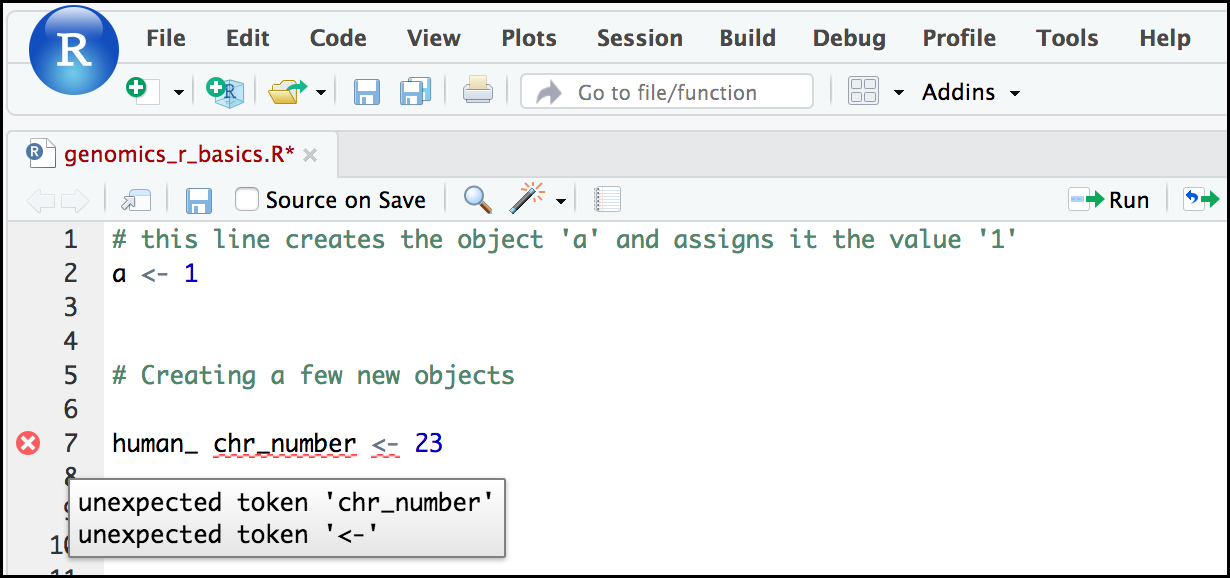
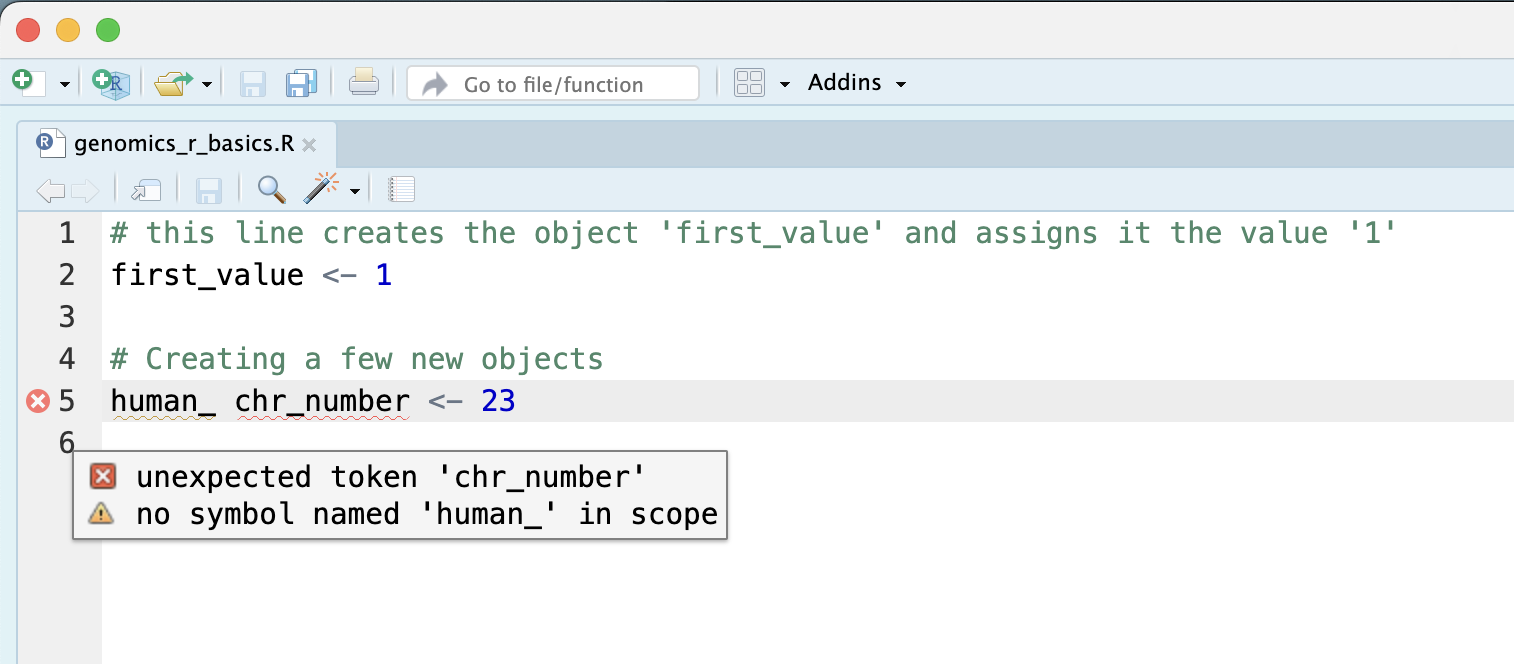
site deploy
Auto-generated via {sandpaper}
Source  : cbe0f137c4fcc7580805bf150e3ebe8342e9138b
Branch  : md-outputs
Author  : GitHub Actions <actions@github.com>
Time    : 2024-01-19 18:23:05 +0000
Message : markdown source builds

Auto-generated via {sandpaper}
Source  : a36d551dfa9544da02a691e5e83518ee6ee3216a
Branch  : main
Author  : Naupaka Zimmerman <naupaka@gmail.com>
Time    : 2024-01-19 18:21:52 +0000
Message : Merge pull request #251 from naupaka/fix-a-name

Rename initial example object name per #98

Changed region(s): [[0.0, 0.0, 1.0, 1.0], [0.0927, 0.4671, 0.1236, 0.4983]]

diff --git a/aio.html b/aio.html
@@ -1130,21 +1130,21 @@ make it easier to record what you did and why.</p>
 <strong>object</strong> in R.</p>
 <p><strong>To create an object you need:</strong></p>
 <ul>
-<li>a name (e.g. ‘a’)</li>
+<li>a name (e.g. ‘first_value’)</li>
 <li>a value (e.g. ‘1’)</li>
 <li>the assignment operator (‘&lt;-’)</li>
 </ul>
 <p>In your script, “<strong>genomics_r_basics.R</strong>”, using the R
-assignment operator ‘&lt;-’, assign ‘1’ to the object ‘a’ as shown.
-Remember to leave a comment in the line above (using the ‘#’) to explain
-what you are doing:</p>
+assignment operator ‘&lt;-’, assign ‘1’ to the object ‘first_value’ as
+shown. Remember to leave a comment in the line above (using the ‘#’) to
+explain what you are doing:</p>
 <div class="codewrapper sourceCode" id="cb1">
 <h3 class="code-label">R<i aria-hidden="true" data-feather="chevron-left"></i><i aria-hidden="true" data-feather="chevron-right"></i>
 </h3>
 <pre class="downlit sourceCode r">
-<code class="sourceCode R"><span><span class="co"># this line creates the object 'a' and assigns it the value '1'</span></span>
+<code class="sourceCode R"><span><span class="co"># this line creates the object 'first_value' and assigns it the value '1'</span></span>
 <span></span>
-<span><span class="va">a</span> <span class="op">&lt;-</span> <span class="fl">1</span></span></code></pre>
+<span><span class="va">first_value</span> <span class="op">&lt;-</span> <span class="fl">1</span></span></code></pre>
 </div>
 <p>Next, run this line of code in your script. You can run a line of
 code by hitting the <kbd>Run</kbd> button that is just above the first
@@ -1163,7 +1163,7 @@ listed above.</p>
 <div class="codewrapper">
 <h3 class="code-label">OUTPUT<i aria-hidden="true" data-feather="chevron-left"></i><i aria-hidden="true" data-feather="chevron-right"></i>
 </h3>
-<pre class="output" tabindex="0"><code>a &lt;- 1
+<pre class="output" tabindex="0"><code>first_value &lt;- 1
 &gt;</code></pre>
 </div>
 <p>The ‘Console’ will display lines of code run from a script and any
@@ -1179,7 +1179,7 @@ outputs or status/warning/error messages (usually in red).</p>
 <th></th>
 </tr></thead>
 <tbody><tr class="odd">
-<td>a</td>
+<td>first_value</td>
 <td>1</td>
 </tr></tbody>
 </table>
@@ -4862,7 +4862,7 @@ Note that contains() is not case sensistive.</p>
 <button class="accordion-button solution-button collapsed" type="button" data-bs-toggle="collapse" data-bs-target="#collapseSolution1" aria-expanded="false" aria-controls="collapseSolution1">
   <h4 class="accordion-header" id="headingSolution1">Show me the solution</h4>
 </button>
-<div id="collapseSolution1" class="accordion-collapse collapse" aria-labelledby="headingSolution1" data-bs-parent="#accordionSolution1">
+<div id="collapseSolution1" class="accordion-collapse collapse" data-bs-parent="#accordionSolution1" aria-labelledby="headingSolution1">
 <div class="accordion-body">
 <div class="codewrapper sourceCode" id="cb10">
 <h3 class="code-label">R<i aria-hidden="true" data-feather="chevron-left"></i><i aria-hidden="true" data-feather="chevron-right"></i>
@@ -4914,7 +4914,7 @@ code:</p>
 <button class="accordion-button solution-button collapsed" type="button" data-bs-toggle="collapse" data-bs-target="#collapseSolution2" aria-expanded="false" aria-controls="collapseSolution2">
   <h4 class="accordion-header" id="headingSolution2">Alternative solution</h4>
 </button>
-<div id="collapseSolution2" class="accordion-collapse collapse" aria-labelledby="headingSolution2" data-bs-parent="#accordionSolution2">
+<div id="collapseSolution2" class="accordion-collapse collapse" data-bs-parent="#accordionSolution2" aria-labelledby="headingSolution2">
 <div class="accordion-body">
 <div class="codewrapper sourceCode" id="cb12">
 <h3 class="code-label">R<i aria-hidden="true" data-feather="chevron-left"></i><i aria-hidden="true" data-feather="chevron-right"></i>
@@ -5184,7 +5184,7 @@ FALSE, we can use to negation symbol “!”. (eg. !TRUE == FALSE).</p>
 <button class="accordion-button solution-button collapsed" type="button" data-bs-toggle="collapse" data-bs-target="#collapseSolution3" aria-expanded="false" aria-controls="collapseSolution3">
   <h4 class="accordion-header" id="headingSolution3">Show me the solution</h4>
 </button>
-<div id="collapseSolution3" class="accordion-collapse collapse" aria-labelledby="headingSolution3" data-bs-parent="#accordionSolution3">
+<div id="collapseSolution3" class="accordion-collapse collapse" data-bs-parent="#accordionSolution3" aria-labelledby="headingSolution3">
 <div class="accordion-body">
 <div class="codewrapper sourceCode" id="cb28">
 <h3 class="code-label">R<i aria-hidden="true" data-feather="chevron-left"></i><i aria-hidden="true" data-feather="chevron-right"></i>
@@ -5385,7 +5385,7 @@ where the filtered depth (DP) is at least 10. Showing only 5th through
 <button class="accordion-button solution-button collapsed" type="button" data-bs-toggle="collapse" data-bs-target="#collapseSolution4" aria-expanded="false" aria-controls="collapseSolution4">
   <h4 class="accordion-header" id="headingSolution4">Show me the solution</h4>
 </button>
-<div id="collapseSolution4" class="accordion-collapse collapse" aria-labelledby="headingSolution4" data-bs-parent="#accordionSolution4">
+<div id="collapseSolution4" class="accordion-collapse collapse" data-bs-parent="#accordionSolution4" aria-labelledby="headingSolution4">
 <div class="accordion-body">
 <div class="codewrapper sourceCode" id="cb39">
 <h3 class="code-label">R<i aria-hidden="true" data-feather="chevron-left"></i><i aria-hidden="true" data-feather="chevron-right"></i>
@@ -5477,7 +5477,7 @@ only show those columns.</p>
 <button class="accordion-button solution-button collapsed" type="button" data-bs-toggle="collapse" data-bs-target="#collapseSolution5" aria-expanded="false" aria-controls="collapseSolution5">
   <h4 class="accordion-header" id="headingSolution5">Show me the solution</h4>
 </button>
-<div id="collapseSolution5" class="accordion-collapse collapse" aria-labelledby="headingSolution5" data-bs-parent="#accordionSolution5">
+<div id="collapseSolution5" class="accordion-collapse collapse" data-bs-parent="#accordionSolution5" aria-labelledby="headingSolution5">
 <div class="accordion-body">
 <div class="codewrapper sourceCode" id="cb43">
 <h3 class="code-label">R<i aria-hidden="true" data-feather="chevron-left"></i><i aria-hidden="true" data-feather="chevron-right"></i>
@@ -5577,7 +5577,7 @@ detected in each sample using the function <code>tally()</code>:</p>
 <button class="accordion-button solution-button collapsed" type="button" data-bs-toggle="collapse" data-bs-target="#collapseSolution6" aria-expanded="false" aria-controls="collapseSolution6">
   <h4 class="accordion-header" id="headingSolution6">Show me the solution</h4>
 </button>
-<div id="collapseSolution6" class="accordion-collapse collapse" aria-labelledby="headingSolution6" data-bs-parent="#accordionSolution6">
+<div id="collapseSolution6" class="accordion-collapse collapse" data-bs-parent="#accordionSolution6" aria-labelledby="headingSolution6">
 <div class="accordion-body">
 <div class="codewrapper sourceCode" id="cb49">
 <h3 class="code-label">R<i aria-hidden="true" data-feather="chevron-left"></i><i aria-hidden="true" data-feather="chevron-right"></i>

diff --git a/instructor/aio.html b/instructor/aio.html
@@ -1134,21 +1134,21 @@ make it easier to record what you did and why.</p>
 <strong>object</strong> in R.</p>
 <p><strong>To create an object you need:</strong></p>
 <ul>
-<li>a name (e.g. ‘a’)</li>
+<li>a name (e.g. ‘first_value’)</li>
 <li>a value (e.g. ‘1’)</li>
 <li>the assignment operator (‘&lt;-’)</li>
 </ul>
 <p>In your script, “<strong>genomics_r_basics.R</strong>”, using the R
-assignment operator ‘&lt;-’, assign ‘1’ to the object ‘a’ as shown.
-Remember to leave a comment in the line above (using the ‘#’) to explain
-what you are doing:</p>
+assignment operator ‘&lt;-’, assign ‘1’ to the object ‘first_value’ as
+shown. Remember to leave a comment in the line above (using the ‘#’) to
+explain what you are doing:</p>
 <div class="codewrapper sourceCode" id="cb1">
 <h3 class="code-label">R<i aria-hidden="true" data-feather="chevron-left"></i><i aria-hidden="true" data-feather="chevron-right"></i>
 </h3>
 <pre class="downlit sourceCode r">
-<code class="sourceCode R"><span><span class="co"># this line creates the object 'a' and assigns it the value '1'</span></span>
+<code class="sourceCode R"><span><span class="co"># this line creates the object 'first_value' and assigns it the value '1'</span></span>
 <span></span>
-<span><span class="va">a</span> <span class="op">&lt;-</span> <span class="fl">1</span></span></code></pre>
+<span><span class="va">first_value</span> <span class="op">&lt;-</span> <span class="fl">1</span></span></code></pre>
 </div>
 <p>Next, run this line of code in your script. You can run a line of
 code by hitting the <kbd>Run</kbd> button that is just above the first
@@ -1167,7 +1167,7 @@ listed above.</p>
 <div class="codewrapper">
 <h3 class="code-label">OUTPUT<i aria-hidden="true" data-feather="chevron-left"></i><i aria-hidden="true" data-feather="chevron-right"></i>
 </h3>
-<pre class="output" tabindex="0"><code>a &lt;- 1
+<pre class="output" tabindex="0"><code>first_value &lt;- 1
 &gt;</code></pre>
 </div>
 <p>The ‘Console’ will display lines of code run from a script and any
@@ -1183,7 +1183,7 @@ outputs or status/warning/error messages (usually in red).</p>
 <th></th>
 </tr></thead>
 <tbody><tr class="odd">
-<td>a</td>
+<td>first_value</td>
 <td>1</td>
 </tr></tbody>
 </table>
@@ -4870,7 +4870,7 @@ Note that contains() is not case sensistive.</p>
 <button class="accordion-button solution-button collapsed" type="button" data-bs-toggle="collapse" data-bs-target="#collapseSolution1" aria-expanded="false" aria-controls="collapseSolution1">
   <h4 class="accordion-header" id="headingSolution1">Show me the solution</h4>
 </button>
-<div id="collapseSolution1" class="accordion-collapse collapse" aria-labelledby="headingSolution1" data-bs-parent="#accordionSolution1">
+<div id="collapseSolution1" class="accordion-collapse collapse" data-bs-parent="#accordionSolution1" aria-labelledby="headingSolution1">
 <div class="accordion-body">
 <div class="codewrapper sourceCode" id="cb10">
 <h3 class="code-label">R<i aria-hidden="true" data-feather="chevron-left"></i><i aria-hidden="true" data-feather="chevron-right"></i>
@@ -4922,7 +4922,7 @@ code:</p>
 <button class="accordion-button solution-button collapsed" type="button" data-bs-toggle="collapse" data-bs-target="#collapseSolution2" aria-expanded="false" aria-controls="collapseSolution2">
   <h4 class="accordion-header" id="headingSolution2">Alternative solution</h4>
 </button>
-<div id="collapseSolution2" class="accordion-collapse collapse" aria-labelledby="headingSolution2" data-bs-parent="#accordionSolution2">
+<div id="collapseSolution2" class="accordion-collapse collapse" data-bs-parent="#accordionSolution2" aria-labelledby="headingSolution2">
 <div class="accordion-body">
 <div class="codewrapper sourceCode" id="cb12">
 <h3 class="code-label">R<i aria-hidden="true" data-feather="chevron-left"></i><i aria-hidden="true" data-feather="chevron-right"></i>
@@ -5192,7 +5192,7 @@ FALSE, we can use to negation symbol “!”. (eg. !TRUE == FALSE).</p>
 <button class="accordion-button solution-button collapsed" type="button" data-bs-toggle="collapse" data-bs-target="#collapseSolution3" aria-expanded="false" aria-controls="collapseSolution3">
   <h4 class="accordion-header" id="headingSolution3">Show me the solution</h4>
 </button>
-<div id="collapseSolution3" class="accordion-collapse collapse" aria-labelledby="headingSolution3" data-bs-parent="#accordionSolution3">
+<div id="collapseSolution3" class="accordion-collapse collapse" data-bs-parent="#accordionSolution3" aria-labelledby="headingSolution3">
 <div class="accordion-body">
 <div class="codewrapper sourceCode" id="cb28">
 <h3 class="code-label">R<i aria-hidden="true" data-feather="chevron-left"></i><i aria-hidden="true" data-feather="chevron-right"></i>
@@ -5393,7 +5393,7 @@ where the filtered depth (DP) is at least 10. Showing only 5th through
 <button class="accordion-button solution-button collapsed" type="button" data-bs-toggle="collapse" data-bs-target="#collapseSolution4" aria-expanded="false" aria-controls="collapseSolution4">
   <h4 class="accordion-header" id="headingSolution4">Show me the solution</h4>
 </button>
-<div id="collapseSolution4" class="accordion-collapse collapse" aria-labelledby="headingSolution4" data-bs-parent="#accordionSolution4">
+<div id="collapseSolution4" class="accordion-collapse collapse" data-bs-parent="#accordionSolution4" aria-labelledby="headingSolution4">
 <div class="accordion-body">
 <div class="codewrapper sourceCode" id="cb39">
 <h3 class="code-label">R<i aria-hidden="true" data-feather="chevron-left"></i><i aria-hidden="true" data-feather="chevron-right"></i>
@@ -5485,7 +5485,7 @@ only show those columns.</p>
 <button class="accordion-button solution-button collapsed" type="button" data-bs-toggle="collapse" data-bs-target="#collapseSolution5" aria-expanded="false" aria-controls="collapseSolution5">
   <h4 class="accordion-header" id="headingSolution5">Show me the solution</h4>
 </button>
-<div id="collapseSolution5" class="accordion-collapse collapse" aria-labelledby="headingSolution5" data-bs-parent="#accordionSolution5">
+<div id="collapseSolution5" class="accordion-collapse collapse" data-bs-parent="#accordionSolution5" aria-labelledby="headingSolution5">
 <div class="accordion-body">
 <div class="codewrapper sourceCode" id="cb43">
 <h3 class="code-label">R<i aria-hidden="true" data-feather="chevron-left"></i><i aria-hidden="true" data-feather="chevron-right"></i>
@@ -5585,7 +5585,7 @@ detected in each sample using the function <code>tally()</code>:</p>
 <button class="accordion-button solution-button collapsed" type="button" data-bs-toggle="collapse" data-bs-target="#collapseSolution6" aria-expanded="false" aria-controls="collapseSolution6">
   <h4 class="accordion-header" id="headingSolution6">Show me the solution</h4>
 </button>
-<div id="collapseSolution6" class="accordion-collapse collapse" aria-labelledby="headingSolution6" data-bs-parent="#accordionSolution6">
+<div id="collapseSolution6" class="accordion-collapse collapse" data-bs-parent="#accordionSolution6" aria-labelledby="headingSolution6">
 <div class="accordion-body">
 <div class="codewrapper sourceCode" id="cb49">
 <h3 class="code-label">R<i aria-hidden="true" data-feather="chevron-left"></i><i aria-hidden="true" data-feather="chevron-right"></i>

diff --git a/05-dplyr.html b/05-dplyr.html
@@ -580,7 +580,7 @@ Note that contains() is not case sensistive.</p>
 <button class="accordion-button solution-button collapsed" type="button" data-bs-toggle="collapse" data-bs-target="#collapseSolution1" aria-expanded="false" aria-controls="collapseSolution1">
   <h4 class="accordion-header" id="headingSolution1">Show me the solution</h4>
 </button>
-<div id="collapseSolution1" class="accordion-collapse collapse" aria-labelledby="headingSolution1" data-bs-parent="#accordionSolution1">
+<div id="collapseSolution1" class="accordion-collapse collapse" data-bs-parent="#accordionSolution1" aria-labelledby="headingSolution1">
 <div class="accordion-body">
 <div class="codewrapper sourceCode" id="cb10">
 <h3 class="code-label">R<i aria-hidden="true" data-feather="chevron-left"></i><i aria-hidden="true" data-feather="chevron-right"></i>
@@ -632,7 +632,7 @@ code:</p>
 <button class="accordion-button solution-button collapsed" type="button" data-bs-toggle="collapse" data-bs-target="#collapseSolution2" aria-expanded="false" aria-controls="collapseSolution2">
   <h4 class="accordion-header" id="headingSolution2">Alternative solution</h4>
 </button>
-<div id="collapseSolution2" class="accordion-collapse collapse" aria-labelledby="headingSolution2" data-bs-parent="#accordionSolution2">
+<div id="collapseSolution2" class="accordion-collapse collapse" data-bs-parent="#accordionSolution2" aria-labelledby="headingSolution2">
 <div class="accordion-body">
 <div class="codewrapper sourceCode" id="cb12">
 <h3 class="code-label">R<i aria-hidden="true" data-feather="chevron-left"></i><i aria-hidden="true" data-feather="chevron-right"></i>
@@ -902,7 +902,7 @@ FALSE, we can use to negation symbol “!”. (eg. !TRUE == FALSE).</p>
 <button class="accordion-button solution-button collapsed" type="button" data-bs-toggle="collapse" data-bs-target="#collapseSolution3" aria-expanded="false" aria-controls="collapseSolution3">
   <h4 class="accordion-header" id="headingSolution3">Show me the solution</h4>
 </button>
-<div id="collapseSolution3" class="accordion-collapse collapse" aria-labelledby="headingSolution3" data-bs-parent="#accordionSolution3">
+<div id="collapseSolution3" class="accordion-collapse collapse" data-bs-parent="#accordionSolution3" aria-labelledby="headingSolution3">
 <div class="accordion-body">
 <div class="codewrapper sourceCode" id="cb28">
 <h3 class="code-label">R<i aria-hidden="true" data-feather="chevron-left"></i><i aria-hidden="true" data-feather="chevron-right"></i>
@@ -1102,7 +1102,7 @@ where the filtered depth (DP) is at least 10. Showing only 5th through
 <button class="accordion-button solution-button collapsed" type="button" data-bs-toggle="collapse" data-bs-target="#collapseSolution4" aria-expanded="false" aria-controls="collapseSolution4">
   <h4 class="accordion-header" id="headingSolution4">Show me the solution</h4>
 </button>
-<div id="collapseSolution4" class="accordion-collapse collapse" aria-labelledby="headingSolution4" data-bs-parent="#accordionSolution4">
+<div id="collapseSolution4" class="accordion-collapse collapse" data-bs-parent="#accordionSolution4" aria-labelledby="headingSolution4">
 <div class="accordion-body">
 <div class="codewrapper sourceCode" id="cb39">
 <h3 class="code-label">R<i aria-hidden="true" data-feather="chevron-left"></i><i aria-hidden="true" data-feather="chevron-right"></i>
@@ -1193,7 +1193,7 @@ only show those columns.</p>
 <button class="accordion-button solution-button collapsed" type="button" data-bs-toggle="collapse" data-bs-target="#collapseSolution5" aria-expanded="false" aria-controls="collapseSolution5">
   <h4 class="accordion-header" id="headingSolution5">Show me the solution</h4>
 </button>
-<div id="collapseSolution5" class="accordion-collapse collapse" aria-labelledby="headingSolution5" data-bs-parent="#accordionSolution5">
+<div id="collapseSolution5" class="accordion-collapse collapse" data-bs-parent="#accordionSolution5" aria-labelledby="headingSolution5">
 <div class="accordion-body">
 <div class="codewrapper sourceCode" id="cb43">
 <h3 class="code-label">R<i aria-hidden="true" data-feather="chevron-left"></i><i aria-hidden="true" data-feather="chevron-right"></i>
@@ -1290,7 +1290,7 @@ detected in each sample using the function <code>tally()</code>:</p>
 <button class="accordion-button solution-button collapsed" type="button" data-bs-toggle="collapse" data-bs-target="#collapseSolution6" aria-expanded="false" aria-controls="collapseSolution6">
   <h4 class="accordion-header" id="headingSolution6">Show me the solution</h4>
 </button>
-<div id="collapseSolution6" class="accordion-collapse collapse" aria-labelledby="headingSolution6" data-bs-parent="#accordionSolution6">
+<div id="collapseSolution6" class="accordion-collapse collapse" data-bs-parent="#accordionSolution6" aria-labelledby="headingSolution6">
 <div class="accordion-body">
 <div class="codewrapper sourceCode" id="cb49">
 <h3 class="code-label">R<i aria-hidden="true" data-feather="chevron-left"></i><i aria-hidden="true" data-feather="chevron-right"></i>

diff --git a/instructor/05-dplyr.html b/instructor/05-dplyr.html
@@ -582,7 +582,7 @@ Note that contains() is not case sensistive.</p>
 <button class="accordion-button solution-button collapsed" type="button" data-bs-toggle="collapse" data-bs-target="#collapseSolution1" aria-expanded="false" aria-controls="collapseSolution1">
   <h4 class="accordion-header" id="headingSolution1">Show me the solution</h4>
 </button>
-<div id="collapseSolution1" class="accordion-collapse collapse" aria-labelledby="headingSolution1" data-bs-parent="#accordionSolution1">
+<div id="collapseSolution1" class="accordion-collapse collapse" data-bs-parent="#accordionSolution1" aria-labelledby="headingSolution1">
 <div class="accordion-body">
 <div class="codewrapper sourceCode" id="cb10">
 <h3 class="code-label">R<i aria-hidden="true" data-feather="chevron-left"></i><i aria-hidden="true" data-feather="chevron-right"></i>
@@ -634,7 +634,7 @@ code:</p>
 <button class="accordion-button solution-button collapsed" type="button" data-bs-toggle="collapse" data-bs-target="#collapseSolution2" aria-expanded="false" aria-controls="collapseSolution2">
   <h4 class="accordion-header" id="headingSolution2">Alternative solution</h4>
 </button>
-<div id="collapseSolution2" class="accordion-collapse collapse" aria-labelledby="headingSolution2" data-bs-parent="#accordionSolution2">
+<div id="collapseSolution2" class="accordion-collapse collapse" data-bs-parent="#accordionSolution2" aria-labelledby="headingSolution2">
 <div class="accordion-body">
 <div class="codewrapper sourceCode" id="cb12">
 <h3 class="code-label">R<i aria-hidden="true" data-feather="chevron-left"></i><i aria-hidden="true" data-feather="chevron-right"></i>
@@ -904,7 +904,7 @@ FALSE, we can use to negation symbol “!”. (eg. !TRUE == FALSE).</p>
 <button class="accordion-button solution-button collapsed" type="button" data-bs-toggle="collapse" data-bs-target="#collapseSolution3" aria-expanded="false" aria-controls="collapseSolution3">
   <h4 class="accordion-header" id="headingSolution3">Show me the solution</h4>
 </button>
-<div id="collapseSolution3" class="accordion-collapse collapse" aria-labelledby="headingSolution3" data-bs-parent="#accordionSolution3">
+<div id="collapseSolution3" class="accordion-collapse collapse" data-bs-parent="#accordionSolution3" aria-labelledby="headingSolution3">
 <div class="accordion-body">
 <div class="codewrapper sourceCode" id="cb28">
 <h3 class="code-label">R<i aria-hidden="true" data-feather="chevron-left"></i><i aria-hidden="true" data-feather="chevron-right"></i>
@@ -1104,7 +1104,7 @@ where the filtered depth (DP) is at least 10. Showing only 5th through
 <button class="accordion-button solution-button collapsed" type="button" data-bs-toggle="collapse" data-bs-target="#collapseSolution4" aria-expanded="false" aria-controls="collapseSolution4">
   <h4 class="accordion-header" id="headingSolution4">Show me the solution</h4>
 </button>
-<div id="collapseSolution4" class="accordion-collapse collapse" aria-labelledby="headingSolution4" data-bs-parent="#accordionSolution4">
+<div id="collapseSolution4" class="accordion-collapse collapse" data-bs-parent="#accordionSolution4" aria-labelledby="headingSolution4">
 <div class="accordion-body">
 <div class="codewrapper sourceCode" id="cb39">
 <h3 class="code-label">R<i aria-hidden="true" data-feather="chevron-left"></i><i aria-hidden="true" data-feather="chevron-right"></i>
@@ -1195,7 +1195,7 @@ only show those columns.</p>
 <button class="accordion-button solution-button collapsed" type="button" data-bs-toggle="collapse" data-bs-target="#collapseSolution5" aria-expanded="false" aria-controls="collapseSolution5">
   <h4 class="accordion-header" id="headingSolution5">Show me the solution</h4>
 </button>
-<div id="collapseSolution5" class="accordion-collapse collapse" aria-labelledby="headingSolution5" data-bs-parent="#accordionSolution5">
+<div id="collapseSolution5" class="accordion-collapse collapse" data-bs-parent="#accordionSolution5" aria-labelledby="headingSolution5">
 <div class="accordion-body">
 <div class="codewrapper sourceCode" id="cb43">
 <h3 class="code-label">R<i aria-hidden="true" data-feather="chevron-left"></i><i aria-hidden="true" data-feather="chevron-right"></i>
@@ -1292,7 +1292,7 @@ detected in each sample using the function <code>tally()</code>:</p>
 <button class="accordion-button solution-button collapsed" type="button" data-bs-toggle="collapse" data-bs-target="#collapseSolution6" aria-expanded="false" aria-controls="collapseSolution6">
   <h4 class="accordion-header" id="headingSolution6">Show me the solution</h4>
 </button>
-<div id="collapseSolution6" class="accordion-collapse collapse" aria-labelledby="headingSolution6" data-bs-parent="#accordionSolution6">
+<div id="collapseSolution6" class="accordion-collapse collapse" data-bs-parent="#accordionSolution6" aria-labelledby="headingSolution6">
 <div class="accordion-body">
 <div class="codewrapper sourceCode" id="cb49">
 <h3 class="code-label">R<i aria-hidden="true" data-feather="chevron-left"></i><i aria-hidden="true" data-feather="chevron-right"></i>

diff --git a/01-r-basics.html b/01-r-basics.html
@@ -431,20 +431,20 @@ make it easier to record what you did and why.</p>
 <p>What might be called a variable in many languages is called an
 <strong>object</strong> in R.</p>
 <p><strong>To create an object you need:</strong></p>
-<ul><li>a name (e.g. ‘a’)</li>
+<ul><li>a name (e.g. ‘first_value’)</li>
 <li>a value (e.g. ‘1’)</li>
 <li>the assignment operator (‘&lt;-’)</li>
 </ul><p>In your script, “<strong>genomics_r_basics.R</strong>”, using the R
-assignment operator ‘&lt;-’, assign ‘1’ to the object ‘a’ as shown.
-Remember to leave a comment in the line above (using the ‘#’) to explain
-what you are doing:</p>
+assignment operator ‘&lt;-’, assign ‘1’ to the object ‘first_value’ as
+shown. Remember to leave a comment in the line above (using the ‘#’) to
+explain what you are doing:</p>
 <div class="codewrapper sourceCode" id="cb1">
 <h3 class="code-label">R<i aria-hidden="true" data-feather="chevron-left"></i><i aria-hidden="true" data-feather="chevron-right"></i>
 </h3>
 <pre class="downlit sourceCode r">
-<code class="sourceCode R"><span><span class="co"># this line creates the object 'a' and assigns it the value '1'</span></span>
+<code class="sourceCode R"><span><span class="co"># this line creates the object 'first_value' and assigns it the value '1'</span></span>
 <span></span>
-<span><span class="va">a</span> <span class="op">&lt;-</span> <span class="fl">1</span></span></code></pre>
+<span><span class="va">first_value</span> <span class="op">&lt;-</span> <span class="fl">1</span></span></code></pre>
 </div>
 <p>Next, run this line of code in your script. You can run a line of
 code by hitting the <kbd>Run</kbd> button that is just above the first
@@ -461,7 +461,7 @@ listed above.</p>
 <div class="codewrapper">
 <h3 class="code-label">OUTPUT<i aria-hidden="true" data-feather="chevron-left"></i><i aria-hidden="true" data-feather="chevron-right"></i>
 </h3>
-<pre class="output" tabindex="0"><code>a &lt;- 1
+<pre class="output" tabindex="0"><code>first_value &lt;- 1
 &gt;</code></pre>
 </div>
 <p>The ‘Console’ will display lines of code run from a script and any
@@ -469,7 +469,7 @@ outputs or status/warning/error messages (usually in red).</p>
 <p>In the ‘Environment’ window you will also get a table:</p>
 <table class="table"><colgroup><col width="7%"><col width="92%"></colgroup><thead><tr class="header"><th>Values</th>
 <th></th>
-</tr></thead><tbody><tr class="odd"><td>a</td>
+</tr></thead><tbody><tr class="odd"><td>first_value</td>
 <td>1</td>
 </tr></tbody></table><p>The ‘Environment’ window allows you to keep track of the objects you
 have created in R.</p>

diff --git a/instructor/01-r-basics.html b/instructor/01-r-basics.html
@@ -433,20 +433,20 @@ make it easier to record what you did and why.</p>
 <p>What might be called a variable in many languages is called an
 <strong>object</strong> in R.</p>
 <p><strong>To create an object you need:</strong></p>
-<ul><li>a name (e.g. ‘a’)</li>
+<ul><li>a name (e.g. ‘first_value’)</li>
 <li>a value (e.g. ‘1’)</li>
 <li>the assignment operator (‘&lt;-’)</li>
 </ul><p>In your script, “<strong>genomics_r_basics.R</strong>”, using the R
-assignment operator ‘&lt;-’, assign ‘1’ to the object ‘a’ as shown.
-Remember to leave a comment in the line above (using the ‘#’) to explain
-what you are doing:</p>
+assignment operator ‘&lt;-’, assign ‘1’ to the object ‘first_value’ as
+shown. Remember to leave a comment in the line above (using the ‘#’) to
+explain what you are doing:</p>
 <div class="codewrapper sourceCode" id="cb1">
 <h3 class="code-label">R<i aria-hidden="true" data-feather="chevron-left"></i><i aria-hidden="true" data-feather="chevron-right"></i>
 </h3>
 <pre class="downlit sourceCode r">
-<code class="sourceCode R"><span><span class="co"># this line creates the object 'a' and assigns it the value '1'</span></span>
+<code class="sourceCode R"><span><span class="co"># this line creates the object 'first_value' and assigns it the value '1'</span></span>
 <span></span>
-<span><span class="va">a</span> <span class="op">&lt;-</span> <span class="fl">1</span></span></code></pre>
+<span><span class="va">first_value</span> <span class="op">&lt;-</span> <span class="fl">1</span></span></code></pre>
 </div>
 <p>Next, run this line of code in your script. You can run a line of
 code by hitting the <kbd>Run</kbd> button that is just above the first
@@ -463,7 +463,7 @@ listed above.</p>
 <div class="codewrapper">
 <h3 class="code-label">OUTPUT<i aria-hidden="true" data-feather="chevron-left"></i><i aria-hidden="true" data-feather="chevron-right"></i>
 </h3>
-<pre class="output" tabindex="0"><code>a &lt;- 1
+<pre class="output" tabindex="0"><code>first_value &lt;- 1
 &gt;</code></pre>
 </div>
 <p>The ‘Console’ will display lines of code run from a script and any
@@ -471,7 +471,7 @@ outputs or status/warning/error messages (usually in red).</p>
 <p>In the ‘Environment’ window you will also get a table:</p>
 <table class="table"><colgroup><col width="7%"><col width="92%"></colgroup><thead><tr class="header"><th>Values</th>
 <th></th>
-</tr></thead><tbody><tr class="odd"><td>a</td>
+</tr></thead><tbody><tr class="odd"><td>first_value</td>
 <td>1</td>
 </tr></tbody></table><p>The ‘Environment’ window allows you to keep track of the objects you
 have created in R.</p>
